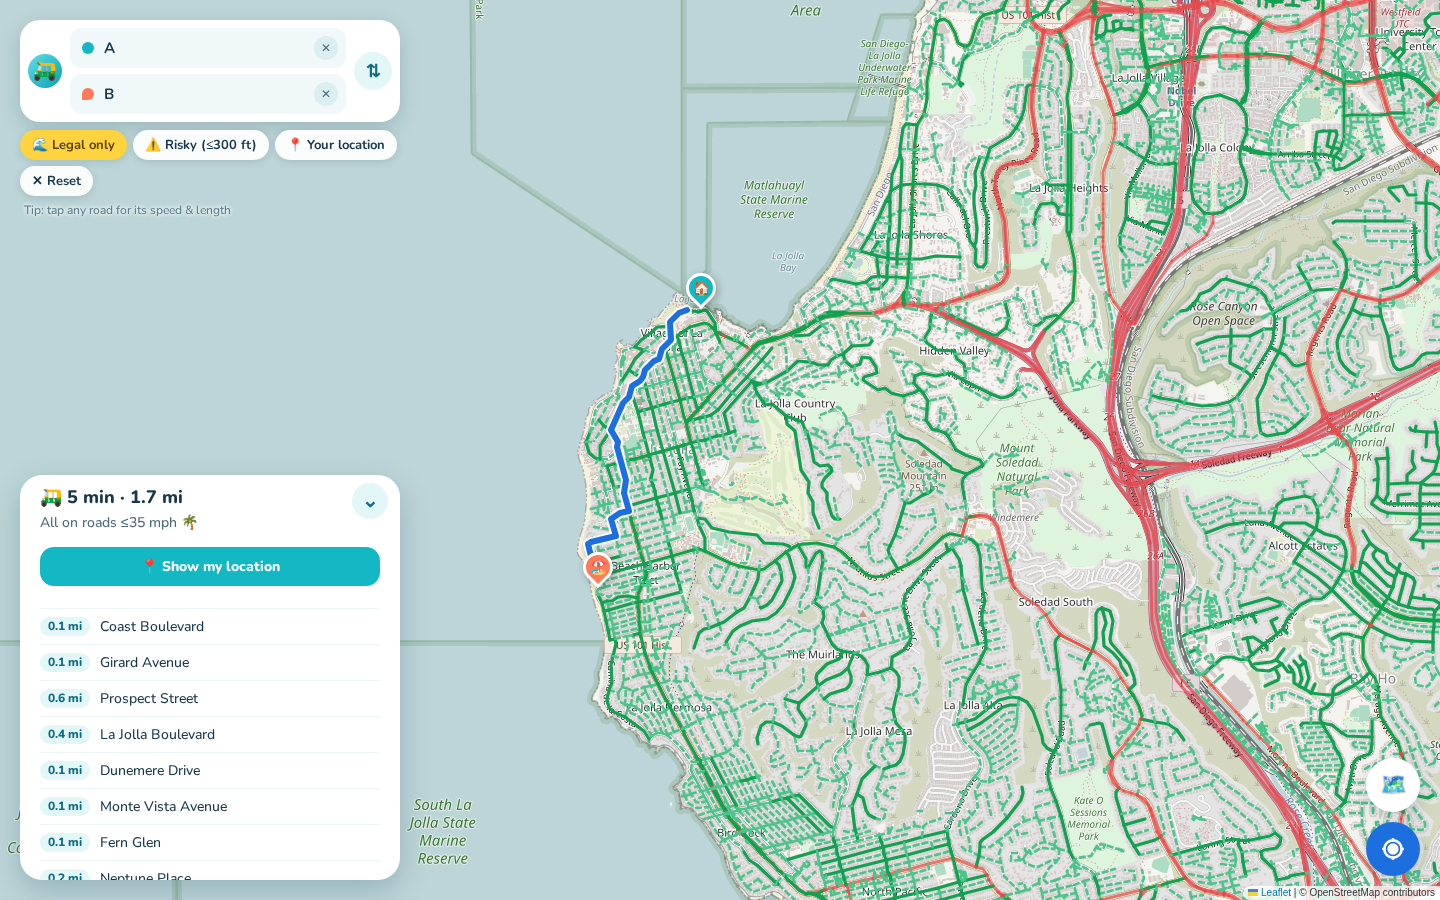
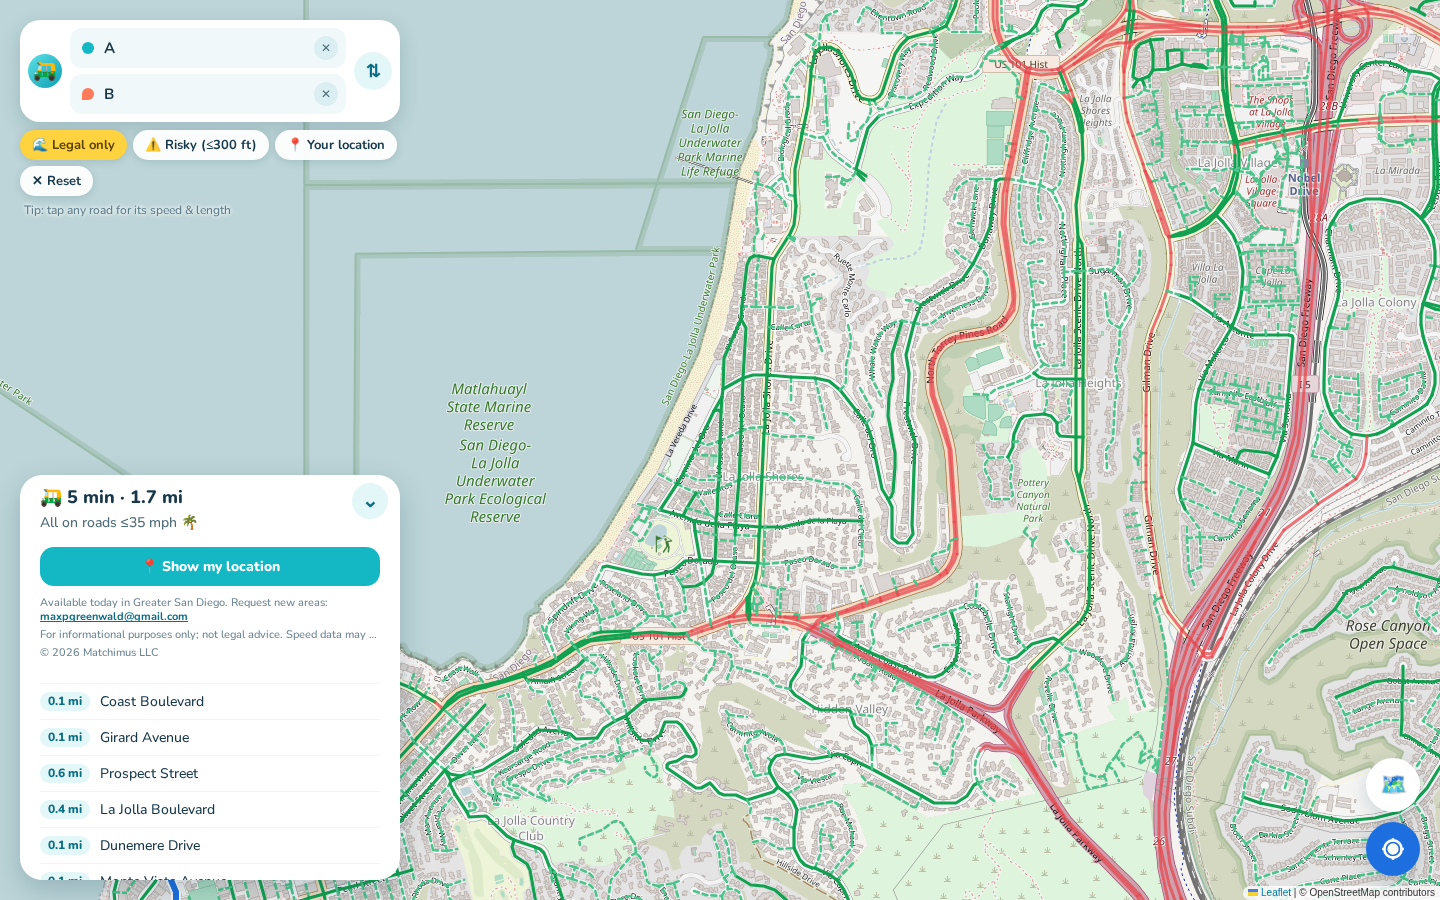
Stronger disclaimer, area-request footer, © 2026 Matchimus LLC

diff --git a/public/index.html b/public/index.html
@@ -58,6 +58,7 @@ details{margin-top:10px}summary{font:800 13px Nunito;color:var(--deep);list-styl
 #sheet{left:20px;right:auto;bottom:20px;width:380px;border-radius:22px;max-height:45vh;box-shadow:0 10px 30px rgba(11,60,80,.22)}
 #sheet .grab{display:none}#sbody{min-height:0}#shead{cursor:default}
 .fab{right:20px}.leaflet-control-attribution{margin-bottom:0!important}}
+#foot{flex:none;margin:0 20px 10px;font-size:11px;line-height:1.35;color:#6b8592}#foot a{color:#0b6e86;font-weight:700}#foot span{display:block;margin-top:3px;white-space:nowrap;overflow:hidden;text-overflow:ellipsis}#foot span:active,#foot span:hover{white-space:normal}
 </style></head><body>
 <div id="map"></div>
 <section id="about" style="position:absolute;width:1px;height:1px;overflow:hidden;clip:rect(0 0 0 0)"><h1>Golf Cart Map: legal golf cart and LSV routes in coastal San Diego</h1>
@@ -72,12 +73,12 @@ details{margin-top:10px}summary{font:800 13px Nunito;color:var(--deep);list-styl
 <div id="chips"><button class="chip on" id="cNorm">🌊 Legal only</button><button class="chip" id="cRisk">⚠ Risky (≤300 ft)</button><button class="chip" id="useme">📍 Your location</button><button class="chip" id="reset" style="display:none">✕ Reset</button></div><div id="help"></div></div>
 <button class="fab" id="lay" title="Legend">🗺</button><button class="fab" id="loc" title="Show my location" aria-label="Show my location"><svg viewBox="0 0 24 24" fill="none" stroke="#fff" stroke-width="2.4"><circle cx="12" cy="12" r="4" fill="#fff"/><path d="M12 2v3M12 19v3M2 12h3M19 12h3"/><circle cx="12" cy="12" r="8"/></svg></button>
 <div id="sheet"><div id="shead"><div class="grab"></div><button id="chev" aria-label="Collapse or expand">⌄</button>
-<div id="title">🏖 Golf Cart Maps</div><div id="sub">Loading roads…</div></div><button class="btn" id="showloc" style="margin:4px 16px 8px;flex:none">📍 Show my location</button><div id="sbody">
+<div id="title">🏖 Golf Cart Maps</div><div id="sub">Loading roads…</div></div><button class="btn" id="showloc" style="margin:4px 16px 8px;flex:none">📍 Show my location</button><div id="foot">Available today in Greater San Diego. Request new areas: <a href="mailto:maxpgreenwald@gmail.com?subject=Golf%20Cart%20Maps%20area%20request">maxpgreenwald@gmail.com</a><br><span>For informational purposes only; not legal advice. Speed data may be wrong or out of date. Always obey posted signs and traffic laws, and drive at your own risk. Provided as is, with no warranties; Matchimus LLC accepts no liability for any loss, injury, citation or damage from using this map.</span><span style="white-space:normal">© 2026 Matchimus LLC</span></div><div id="sbody">
 <div id="steps"></div>
 <div class="btnrow" id="acts" style="display:none"><button class="btn alt" id="clr">✕ Reset</button><button class="btn" id="swap">⇅ Swap</button></div>
 <div id="legend"><span><i class="sw" style="background:#12a150"></i>Posted ≤35</span><span><i class="sw" style="background:repeating-linear-gradient(90deg,#4cc38a 0 5px,transparent 5px 8px)"></i>Small road (assumed 25)</span><span><i class="sw" style="background:#e5484d"></i>40+ / major — avoid</span><span><i class="sw" style="background:#1d6fe0"></i>Route</span><span><i class="sw" style="background:#ffc400"></i>Risky stretch</span></div>
 <details id="more"><summary>🗺 Legend, tips & fine print ▾</summary>
-<div id="disc"><b>Not legal advice.</b> OSM data is volunteer-maintained and can be wrong — posted signs and local rules always win. LSVs: no roads over 35 mph (CVC 21260); you may cross a faster road at a ~90° intersection between ≤35 roads. Risky mode shows short illegal stretches; drive them at your own risk. <span id="dmeta"></span></div></details><a id="tip" href="https://venmo.com/u/max-greenwald" target="_blank" rel="noopener">🎁 Enjoying the ride? <b>Tip the builder</b> on Venmo 🌴</a>
+<div id="disc"><b>For informational purposes only; not legal advice. Speed data may be wrong or out of date. Always obey posted signs and traffic laws, and drive at your own risk. Provided as is, with no warranties; Matchimus LLC accepts no liability for any loss, injury, citation or damage from using this map.</b> OSM data is volunteer-maintained and can be wrong — posted signs and local rules always win. LSVs: no roads over 35 mph (CVC 21260); you may cross a faster road at a ~90° intersection between ≤35 roads. Risky mode shows short illegal stretches; drive them at your own risk. <span id="dmeta"></span></div></details><a id="tip" href="https://venmo.com/u/max-greenwald" target="_blank" rel="noopener">🎁 Enjoying the ride? <b>Tip the builder</b> on Venmo 🌴</a>
 </div></div>
 <script src="https://unpkg.com/leaflet@1.9.4/dist/leaflet.js"></script>
 <script src="app.js"></script>

diff --git a/public/sw.js b/public/sw.js
@@ -1,4 +1,4 @@
-const C='gcm-v14';
+const C='gcm-v15';
 self.addEventListener('install',e=>self.skipWaiting());
 self.addEventListener('activate',e=>e.waitUntil(caches.keys().then(ks=>Promise.all(ks.filter(k=>k!==C).map(k=>caches.delete(k)))).then(()=>self.clients.claim())));
 self.addEventListener('fetch',e=>{if(e.request.method!=='GET')return;e.respondWith(fetch(e.request).then(r=>{if(r.ok){const c=r.clone();caches.open(C).then(x=>x.put(e.request,c))}return r}).catch(()=>caches.match(e.request)))});
